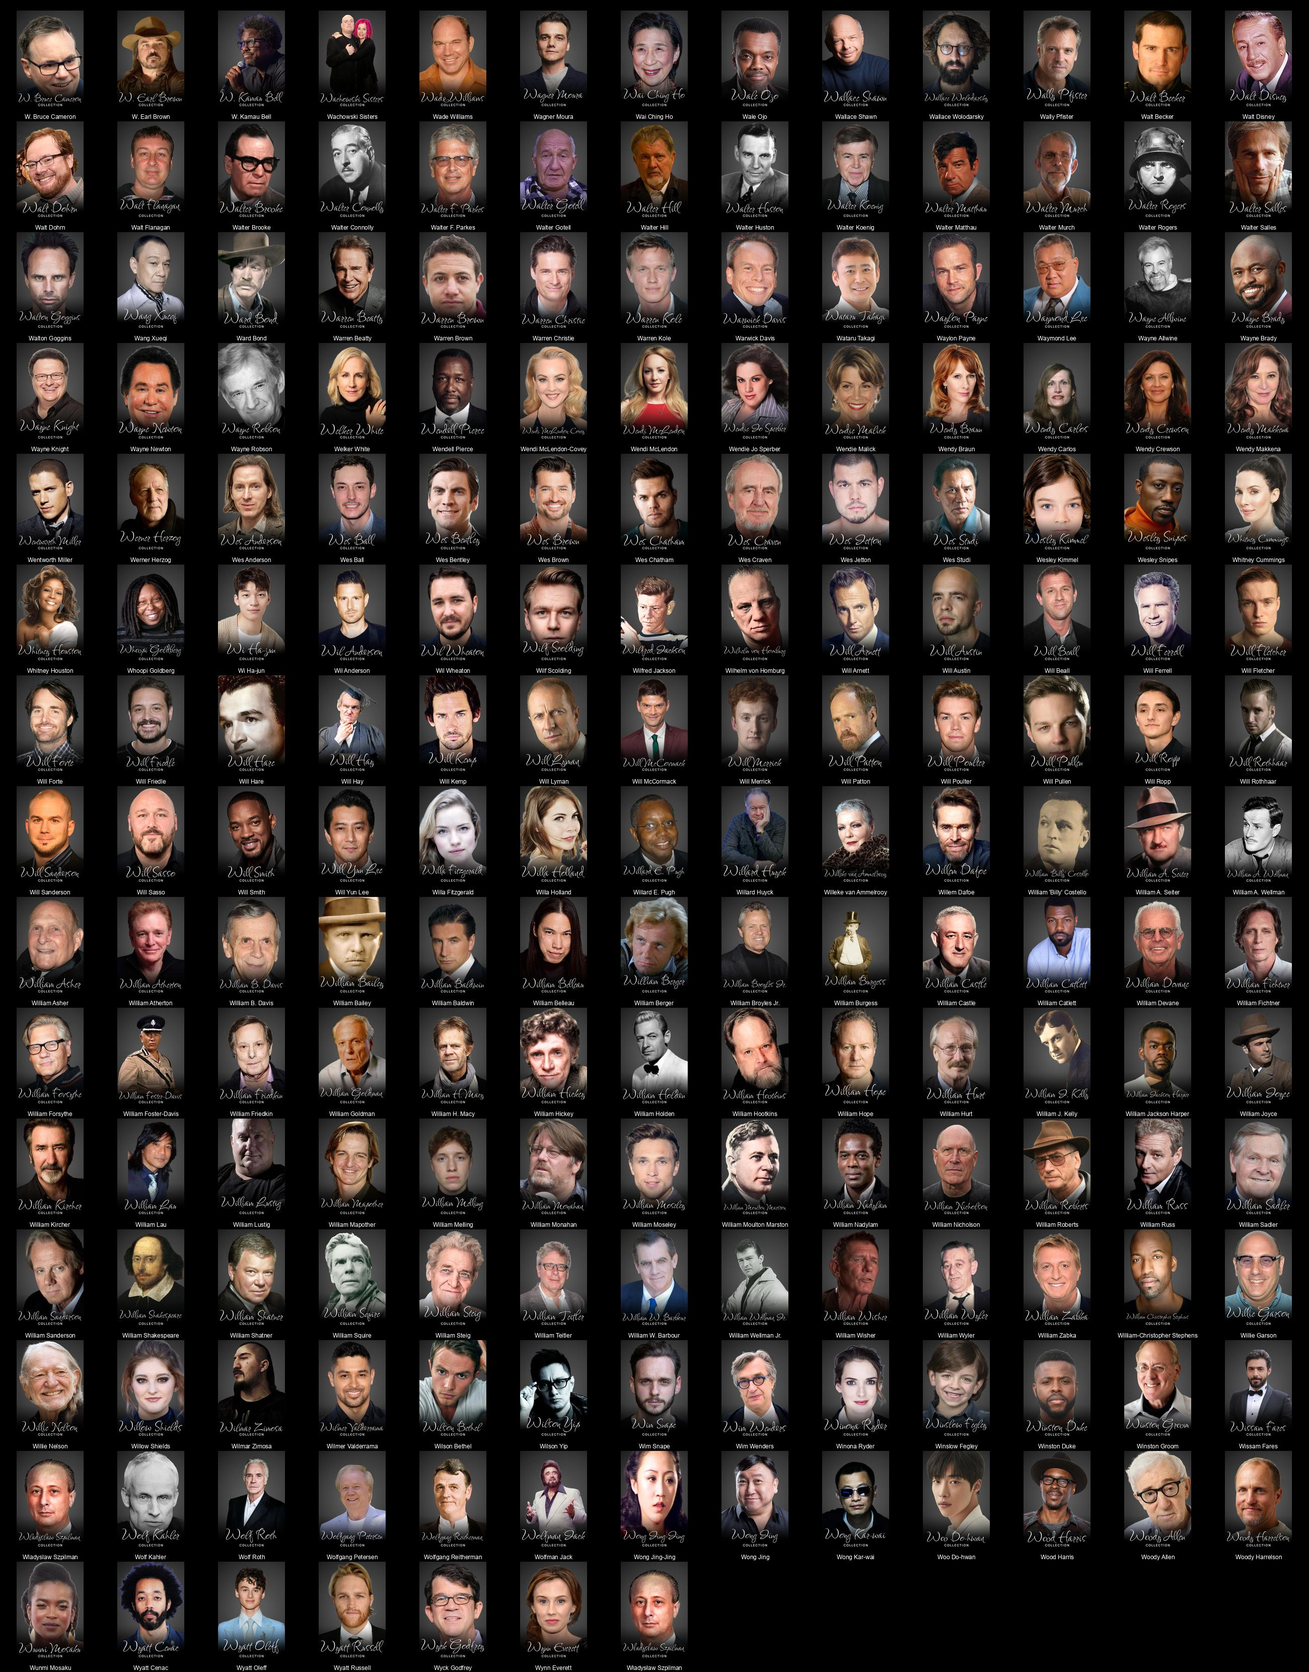
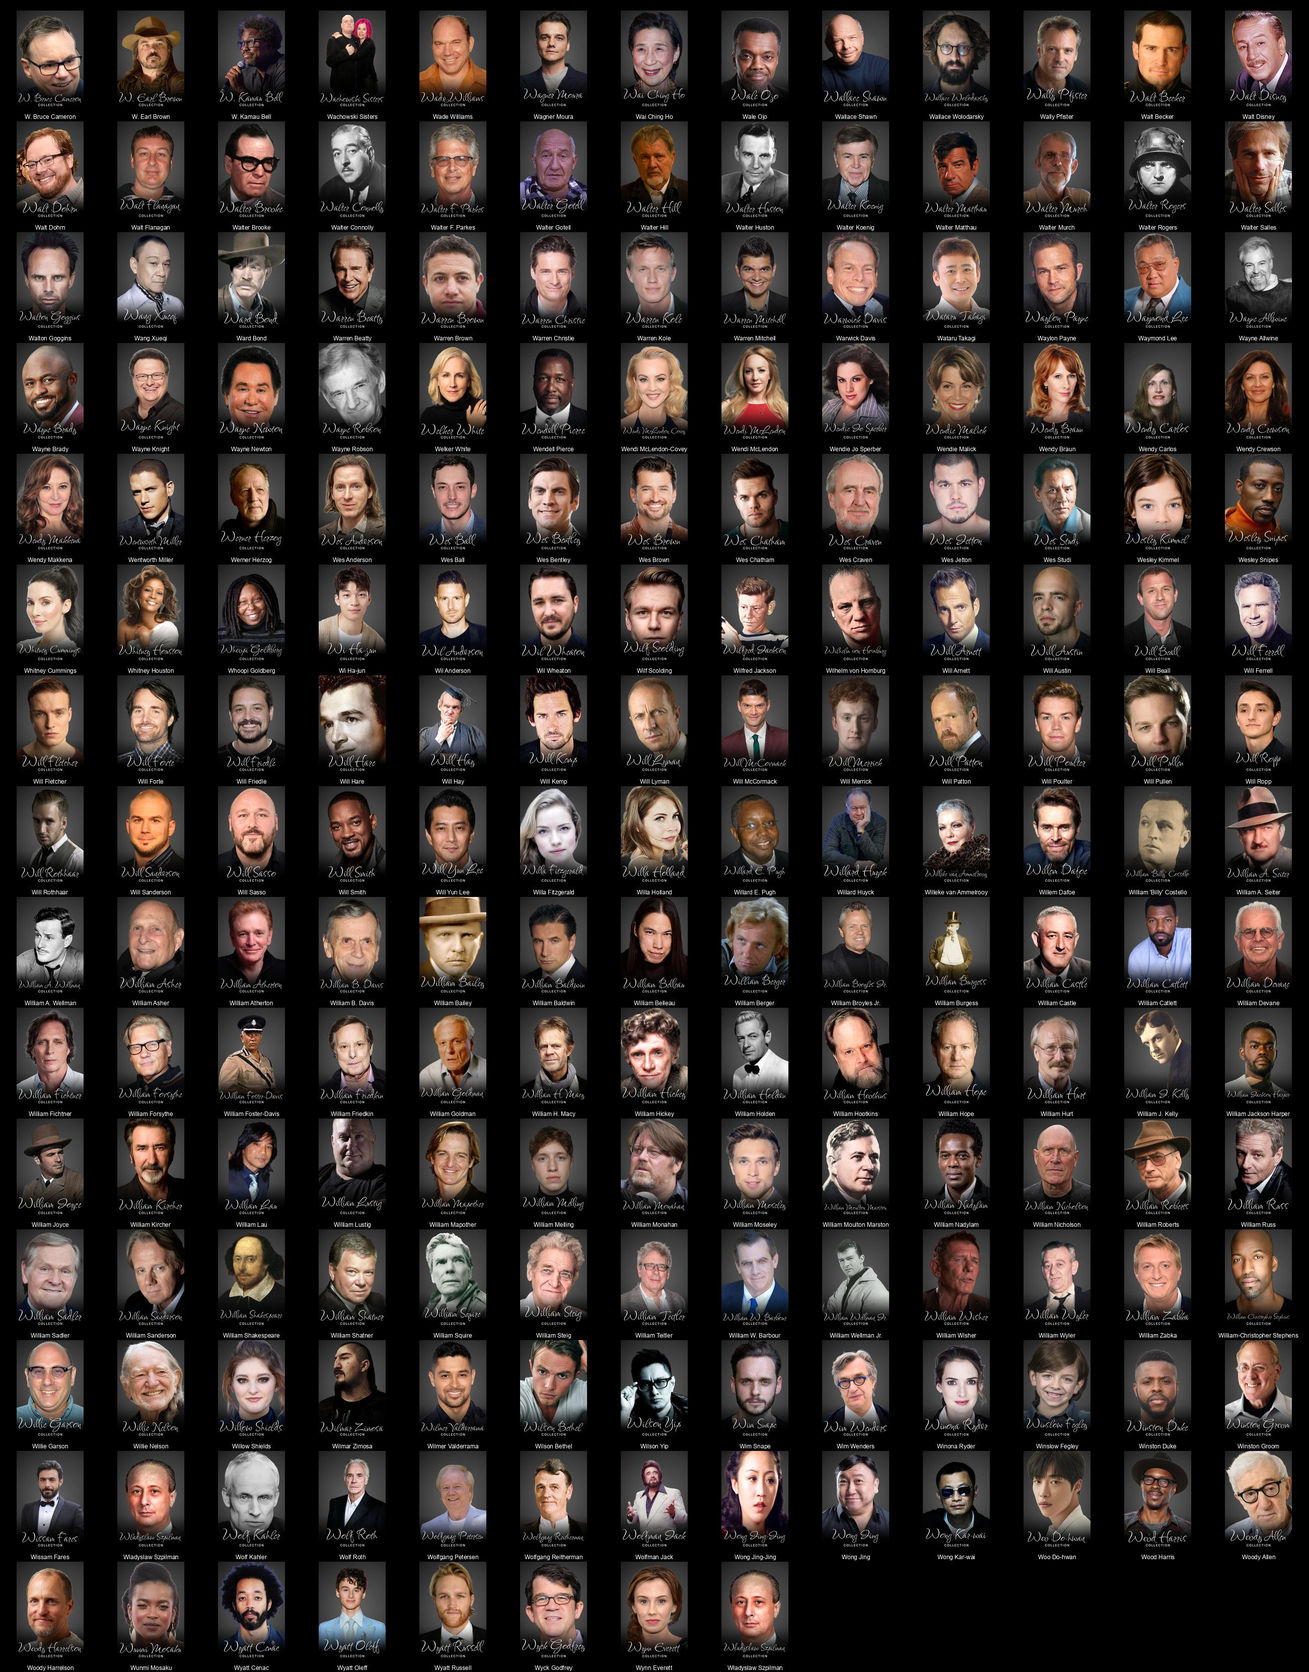
Readme Update

Changed region(s): [[0.0935, 0.1241, 0.9969, 1.0], [0.0, 0.1861, 0.0623, 1.0]]

diff --git a/README.md b/README.md
@@ -1,4 +1,4 @@
-# Kometa People Images - Signature (signature) (10901 Images)
+# Kometa People Images - Signature (signature) (10909 Images)
 
 <details><summary><a href="'">' (1 Images)</a></summary>
 
@@ -898,7 +898,7 @@
 * [Azhar Usman](https://raw.githubusercontent.com/Kometa-Team/People-Images-signature/master/A/Images/Azhar%20Usman.jpg)
 * [Aziz Ansari](https://raw.githubusercontent.com/Kometa-Team/People-Images-signature/master/A/Images/Aziz%20Ansari.jpg)
 </details>
-<details><summary><a href="B">B (546 Images)</a></summary>
+<details><summary><a href="B">B (547 Images)</a></summary>
 
 * [B.F. Blinn](https://raw.githubusercontent.com/Kometa-Team/People-Images-signature/master/B/Images/B.F.%20Blinn.jpg)
 * [B.J. Penn](https://raw.githubusercontent.com/Kometa-Team/People-Images-signature/master/B/Images/B.J.%20Penn.jpg)
@@ -1418,6 +1418,7 @@
 * [Bryan Singer](https://raw.githubusercontent.com/Kometa-Team/People-Images-signature/master/B/Images/Bryan%20Singer.jpg)
 * [Bryan Sloyer](https://raw.githubusercontent.com/Kometa-Team/People-Images-signature/master/B/Images/Bryan%20Sloyer.jpg)
 * [Bryan Unkeless](https://raw.githubusercontent.com/Kometa-Team/People-Images-signature/master/B/Images/Bryan%20Unkeless.jpg)
+* [Bryan Woods](https://raw.githubusercontent.com/Kometa-Team/People-Images-signature/master/B/Images/Bryan%20Woods.jpg)
 * [Bryce Dallas Howard](https://raw.githubusercontent.com/Kometa-Team/People-Images-signature/master/B/Images/Bryce%20Dallas%20Howard.jpg)
 * [Bryce Johnson](https://raw.githubusercontent.com/Kometa-Team/People-Images-signature/master/B/Images/Bryce%20Johnson.jpg)
 * [Bráulio Mantovani](https://raw.githubusercontent.com/Kometa-Team/People-Images-signature/master/B/Images/Br%C3%A1ulio%20Mantovani.jpg)
@@ -2147,7 +2148,7 @@
 * [Cédric Klapisch](https://raw.githubusercontent.com/Kometa-Team/People-Images-signature/master/C/Images/C%C3%A9dric%20Klapisch.jpg)
 * [Céline Sciamma](https://raw.githubusercontent.com/Kometa-Team/People-Images-signature/master/C/Images/C%C3%A9line%20Sciamma.jpg)
 </details>
-<details><summary><a href="D">D (698 Images)</a></summary>
+<details><summary><a href="D">D (701 Images)</a></summary>
 
 * [D. David Morin](https://raw.githubusercontent.com/Kometa-Team/People-Images-signature/master/D/Images/D.%20David%20Morin.jpg)
 * [D.A. Obahor](https://raw.githubusercontent.com/Kometa-Team/People-Images-signature/master/D/Images/D.A.%20Obahor.jpg)
@@ -2417,6 +2418,7 @@
 * [David Bruckner](https://raw.githubusercontent.com/Kometa-Team/People-Images-signature/master/D/Images/David%20Bruckner.jpg)
 * [David Brückner](https://raw.githubusercontent.com/Kometa-Team/People-Images-signature/master/D/Images/David%20Br%C3%BCckner.jpg)
 * [David Butler](https://raw.githubusercontent.com/Kometa-Team/People-Images-signature/master/D/Images/David%20Butler.jpg)
+* [David Callaham](https://raw.githubusercontent.com/Kometa-Team/People-Images-signature/master/D/Images/David%20Callaham.jpg)
 * [David Carradine](https://raw.githubusercontent.com/Kometa-Team/People-Images-signature/master/D/Images/David%20Carradine.jpg)
 * [David Costabile](https://raw.githubusercontent.com/Kometa-Team/People-Images-signature/master/D/Images/David%20Costabile.jpg)
 * [David Cowgill](https://raw.githubusercontent.com/Kometa-Team/People-Images-signature/master/D/Images/David%20Cowgill.jpg)
@@ -2645,6 +2647,7 @@
 * [Derek Wilson](https://raw.githubusercontent.com/Kometa-Team/People-Images-signature/master/D/Images/Derek%20Wilson.jpg)
 * [Dermot Crowley](https://raw.githubusercontent.com/Kometa-Team/People-Images-signature/master/D/Images/Dermot%20Crowley.jpg)
 * [Dermot Mulroney](https://raw.githubusercontent.com/Kometa-Team/People-Images-signature/master/D/Images/Dermot%20Mulroney.jpg)
+* [Dermot O'Neill](https://raw.githubusercontent.com/Kometa-Team/People-Images-signature/master/D/Images/Dermot%20O%27Neill.jpg)
 * [Desmin Borges](https://raw.githubusercontent.com/Kometa-Team/People-Images-signature/master/D/Images/Desmin%20Borges.jpg)
 * [Desmond Chiam](https://raw.githubusercontent.com/Kometa-Team/People-Images-signature/master/D/Images/Desmond%20Chiam.jpg)
 * [Desmond Harrington](https://raw.githubusercontent.com/Kometa-Team/People-Images-signature/master/D/Images/Desmond%20Harrington.jpg)
@@ -2804,6 +2807,7 @@
 * [Douglas Silva](https://raw.githubusercontent.com/Kometa-Team/People-Images-signature/master/D/Images/Douglas%20Silva.jpg)
 * [Douglas Sirk](https://raw.githubusercontent.com/Kometa-Team/People-Images-signature/master/D/Images/Douglas%20Sirk.jpg)
 * [Douglas Spain](https://raw.githubusercontent.com/Kometa-Team/People-Images-signature/master/D/Images/Douglas%20Spain.jpg)
+* [Douglas Wick](https://raw.githubusercontent.com/Kometa-Team/People-Images-signature/master/D/Images/Douglas%20Wick.jpg)
 * [Dougray Scott](https://raw.githubusercontent.com/Kometa-Team/People-Images-signature/master/D/Images/Dougray%20Scott.jpg)
 * [Doutzen Kroes](https://raw.githubusercontent.com/Kometa-Team/People-Images-signature/master/D/Images/Doutzen%20Kroes.jpg)
 * [Dov Davidoff](https://raw.githubusercontent.com/Kometa-Team/People-Images-signature/master/D/Images/Dov%20Davidoff.jpg)
@@ -4245,7 +4249,7 @@
 * [Izaac Wang](https://raw.githubusercontent.com/Kometa-Team/People-Images-signature/master/I/Images/Izaac%20Wang.jpg)
 * [Izabella Scorupco](https://raw.githubusercontent.com/Kometa-Team/People-Images-signature/master/I/Images/Izabella%20Scorupco.jpg)
 </details>
-<details><summary><a href="J">J (1333 Images)</a></summary>
+<details><summary><a href="J">J (1334 Images)</a></summary>
 
 * [J'Dvonte](https://raw.githubusercontent.com/Kometa-Team/People-Images-signature/master/J/Images/J%27Dvonte.jpg)
 * [J. A. Bayona](https://raw.githubusercontent.com/Kometa-Team/People-Images-signature/master/J/Images/J.%20A.%20Bayona.jpg)
@@ -5299,6 +5303,7 @@
 * [Jonathan Eirich](https://raw.githubusercontent.com/Kometa-Team/People-Images-signature/master/J/Images/Jonathan%20Eirich.jpg)
 * [Jonathan Frakes](https://raw.githubusercontent.com/Kometa-Team/People-Images-signature/master/J/Images/Jonathan%20Frakes.jpg)
 * [Jonathan Glazer](https://raw.githubusercontent.com/Kometa-Team/People-Images-signature/master/J/Images/Jonathan%20Glazer.jpg)
+* [Jonathan Glickman](https://raw.githubusercontent.com/Kometa-Team/People-Images-signature/master/J/Images/Jonathan%20Glickman.jpg)
 * [Jonathan Goldstein](https://raw.githubusercontent.com/Kometa-Team/People-Images-signature/master/J/Images/Jonathan%20Goldstein.jpg)
 * [Jonathan Good](https://raw.githubusercontent.com/Kometa-Team/People-Images-signature/master/J/Images/Jonathan%20Good.jpg)
 * [Jonathan Groff](https://raw.githubusercontent.com/Kometa-Team/People-Images-signature/master/J/Images/Jonathan%20Groff.jpg)
@@ -5581,7 +5586,7 @@
 * [Jürgen Prochnow](https://raw.githubusercontent.com/Kometa-Team/People-Images-signature/master/J/Images/J%C3%BCrgen%20Prochnow.jpg)
 * [Jūzō Itami](https://raw.githubusercontent.com/Kometa-Team/People-Images-signature/master/J/Images/J%C5%ABz%C5%8D%20Itami.jpg)
 </details>
-<details><summary><a href="K">K (528 Images)</a></summary>
+<details><summary><a href="K">K (529 Images)</a></summary>
 
 * [K Raghavendra Rao](https://raw.githubusercontent.com/Kometa-Team/People-Images-signature/master/K/Images/K%20Raghavendra%20Rao.jpg)
 * [K.J. Apa](https://raw.githubusercontent.com/Kometa-Team/People-Images-signature/master/K/Images/K.J.%20Apa.jpg)
@@ -5752,6 +5757,7 @@
 * [Kazuki Kitamura](https://raw.githubusercontent.com/Kometa-Team/People-Images-signature/master/K/Images/Kazuki%20Kitamura.jpg)
 * [Kazuko Yanaga](https://raw.githubusercontent.com/Kometa-Team/People-Images-signature/master/K/Images/Kazuko%20Yanaga.jpg)
 * [Kazunari Tanaka](https://raw.githubusercontent.com/Kometa-Team/People-Images-signature/master/K/Images/Kazunari%20Tanaka.jpg)
+* [Kazuya Nomura](https://raw.githubusercontent.com/Kometa-Team/People-Images-signature/master/K/Images/Kazuya%20Nomura.jpg)
 * [Kazuya Shiraishi](https://raw.githubusercontent.com/Kometa-Team/People-Images-signature/master/K/Images/Kazuya%20Shiraishi.jpg)
 * [Kazuya Tsurumaki](https://raw.githubusercontent.com/Kometa-Team/People-Images-signature/master/K/Images/Kazuya%20Tsurumaki.jpg)
 * [Kazuyuki Okitsu](https://raw.githubusercontent.com/Kometa-Team/People-Images-signature/master/K/Images/Kazuyuki%20Okitsu.jpg)
@@ -8463,7 +8469,7 @@
 * [Quinn Duffy](https://raw.githubusercontent.com/Kometa-Team/People-Images-signature/master/Q/Images/Quinn%20Duffy.jpg)
 * [Quinton Jackson](https://raw.githubusercontent.com/Kometa-Team/People-Images-signature/master/Q/Images/Quinton%20Jackson.jpg)
 </details>
-<details><summary><a href="R">R (691 Images)</a></summary>
+<details><summary><a href="R">R (692 Images)</a></summary>
 
 * [R. Lee Ermey](https://raw.githubusercontent.com/Kometa-Team/People-Images-signature/master/R/Images/R.%20Lee%20Ermey.jpg)
 * [R. Madhavan](https://raw.githubusercontent.com/Kometa-Team/People-Images-signature/master/R/Images/R.%20Madhavan.jpg)
@@ -8777,6 +8783,7 @@
 * [Rie Kugimiya](https://raw.githubusercontent.com/Kometa-Team/People-Images-signature/master/R/Images/Rie%20Kugimiya.jpg)
 * [Rie Takahashi](https://raw.githubusercontent.com/Kometa-Team/People-Images-signature/master/R/Images/Rie%20Takahashi.jpg)
 * [Rieko Takahashi](https://raw.githubusercontent.com/Kometa-Team/People-Images-signature/master/R/Images/Rieko%20Takahashi.jpg)
+* [Rik Mayall](https://raw.githubusercontent.com/Kometa-Team/People-Images-signature/master/R/Images/Rik%20Mayall.jpg)
 * [Riki Lindhome](https://raw.githubusercontent.com/Kometa-Team/People-Images-signature/master/R/Images/Riki%20Lindhome.jpg)
 * [Riki Takeuchi](https://raw.githubusercontent.com/Kometa-Team/People-Images-signature/master/R/Images/Riki%20Takeuchi.jpg)
 * [Rikiya Koyama](https://raw.githubusercontent.com/Kometa-Team/People-Images-signature/master/R/Images/Rikiya%20Koyama.jpg)
@@ -10617,7 +10624,7 @@
 * [Von Lewis](https://raw.githubusercontent.com/Kometa-Team/People-Images-signature/master/V/Images/Von%20Lewis.jpg)
 * [Věra Chytilová](https://raw.githubusercontent.com/Kometa-Team/People-Images-signature/master/V/Images/V%C4%9Bra%20Chytilov%C3%A1.jpg)
 </details>
-<details><summary><a href="W">W (189 Images)</a></summary>
+<details><summary><a href="W">W (190 Images)</a></summary>
 
 * [W. Bruce Cameron](https://raw.githubusercontent.com/Kometa-Team/People-Images-signature/master/W/Images/W.%20Bruce%20Cameron.jpg)
 * [W. Earl Brown](https://raw.githubusercontent.com/Kometa-Team/People-Images-signature/master/W/Images/W.%20Earl%20Brown.jpg)
@@ -10652,6 +10659,7 @@
 * [Warren Brown](https://raw.githubusercontent.com/Kometa-Team/People-Images-signature/master/W/Images/Warren%20Brown.jpg)
 * [Warren Christie](https://raw.githubusercontent.com/Kometa-Team/People-Images-signature/master/W/Images/Warren%20Christie.jpg)
 * [Warren Kole](https://raw.githubusercontent.com/Kometa-Team/People-Images-signature/master/W/Images/Warren%20Kole.jpg)
+* [Warren Mitchell](https://raw.githubusercontent.com/Kometa-Team/People-Images-signature/master/W/Images/Warren%20Mitchell.jpg)
 * [Warwick Davis](https://raw.githubusercontent.com/Kometa-Team/People-Images-signature/master/W/Images/Warwick%20Davis.jpg)
 * [Wataru Takagi](https://raw.githubusercontent.com/Kometa-Team/People-Images-signature/master/W/Images/Wataru%20Takagi.jpg)
 * [Waylon Payne](https://raw.githubusercontent.com/Kometa-Team/People-Images-signature/master/W/Images/Waylon%20Payne.jpg)

diff --git a/D/README.md b/D/README.md
@@ -1,4 +1,4 @@
-# Kometa People Images - Signature (signature) - D (698 Images)
+# Kometa People Images - Signature (signature) - D (701 Images)
 ![Grid](grid.jpg)
 
 * [D. David Morin](https://raw.githubusercontent.com/Kometa-Team/People-Images-signature/master/D/Images/D.%20David%20Morin.jpg)
@@ -269,6 +269,7 @@
 * [David Bruckner](https://raw.githubusercontent.com/Kometa-Team/People-Images-signature/master/D/Images/David%20Bruckner.jpg)
 * [David Brückner](https://raw.githubusercontent.com/Kometa-Team/People-Images-signature/master/D/Images/David%20Br%C3%BCckner.jpg)
 * [David Butler](https://raw.githubusercontent.com/Kometa-Team/People-Images-signature/master/D/Images/David%20Butler.jpg)
+* [David Callaham](https://raw.githubusercontent.com/Kometa-Team/People-Images-signature/master/D/Images/David%20Callaham.jpg)
 * [David Carradine](https://raw.githubusercontent.com/Kometa-Team/People-Images-signature/master/D/Images/David%20Carradine.jpg)
 * [David Costabile](https://raw.githubusercontent.com/Kometa-Team/People-Images-signature/master/D/Images/David%20Costabile.jpg)
 * [David Cowgill](https://raw.githubusercontent.com/Kometa-Team/People-Images-signature/master/D/Images/David%20Cowgill.jpg)
@@ -497,6 +498,7 @@
 * [Derek Wilson](https://raw.githubusercontent.com/Kometa-Team/People-Images-signature/master/D/Images/Derek%20Wilson.jpg)
 * [Dermot Crowley](https://raw.githubusercontent.com/Kometa-Team/People-Images-signature/master/D/Images/Dermot%20Crowley.jpg)
 * [Dermot Mulroney](https://raw.githubusercontent.com/Kometa-Team/People-Images-signature/master/D/Images/Dermot%20Mulroney.jpg)
+* [Dermot O'Neill](https://raw.githubusercontent.com/Kometa-Team/People-Images-signature/master/D/Images/Dermot%20O%27Neill.jpg)
 * [Desmin Borges](https://raw.githubusercontent.com/Kometa-Team/People-Images-signature/master/D/Images/Desmin%20Borges.jpg)
 * [Desmond Chiam](https://raw.githubusercontent.com/Kometa-Team/People-Images-signature/master/D/Images/Desmond%20Chiam.jpg)
 * [Desmond Harrington](https://raw.githubusercontent.com/Kometa-Team/People-Images-signature/master/D/Images/Desmond%20Harrington.jpg)
@@ -656,6 +658,7 @@
 * [Douglas Silva](https://raw.githubusercontent.com/Kometa-Team/People-Images-signature/master/D/Images/Douglas%20Silva.jpg)
 * [Douglas Sirk](https://raw.githubusercontent.com/Kometa-Team/People-Images-signature/master/D/Images/Douglas%20Sirk.jpg)
 * [Douglas Spain](https://raw.githubusercontent.com/Kometa-Team/People-Images-signature/master/D/Images/Douglas%20Spain.jpg)
+* [Douglas Wick](https://raw.githubusercontent.com/Kometa-Team/People-Images-signature/master/D/Images/Douglas%20Wick.jpg)
 * [Dougray Scott](https://raw.githubusercontent.com/Kometa-Team/People-Images-signature/master/D/Images/Dougray%20Scott.jpg)
 * [Doutzen Kroes](https://raw.githubusercontent.com/Kometa-Team/People-Images-signature/master/D/Images/Doutzen%20Kroes.jpg)
 * [Dov Davidoff](https://raw.githubusercontent.com/Kometa-Team/People-Images-signature/master/D/Images/Dov%20Davidoff.jpg)

diff --git a/K/README.md b/K/README.md
@@ -1,4 +1,4 @@
-# Kometa People Images - Signature (signature) - K (528 Images)
+# Kometa People Images - Signature (signature) - K (529 Images)
 ![Grid](grid.jpg)
 
 * [K Raghavendra Rao](https://raw.githubusercontent.com/Kometa-Team/People-Images-signature/master/K/Images/K%20Raghavendra%20Rao.jpg)
@@ -170,6 +170,7 @@
 * [Kazuki Kitamura](https://raw.githubusercontent.com/Kometa-Team/People-Images-signature/master/K/Images/Kazuki%20Kitamura.jpg)
 * [Kazuko Yanaga](https://raw.githubusercontent.com/Kometa-Team/People-Images-signature/master/K/Images/Kazuko%20Yanaga.jpg)
 * [Kazunari Tanaka](https://raw.githubusercontent.com/Kometa-Team/People-Images-signature/master/K/Images/Kazunari%20Tanaka.jpg)
+* [Kazuya Nomura](https://raw.githubusercontent.com/Kometa-Team/People-Images-signature/master/K/Images/Kazuya%20Nomura.jpg)
 * [Kazuya Shiraishi](https://raw.githubusercontent.com/Kometa-Team/People-Images-signature/master/K/Images/Kazuya%20Shiraishi.jpg)
 * [Kazuya Tsurumaki](https://raw.githubusercontent.com/Kometa-Team/People-Images-signature/master/K/Images/Kazuya%20Tsurumaki.jpg)
 * [Kazuyuki Okitsu](https://raw.githubusercontent.com/Kometa-Team/People-Images-signature/master/K/Images/Kazuyuki%20Okitsu.jpg)

diff --git a/J/README.md b/J/README.md
@@ -1,4 +1,4 @@
-# Kometa People Images - Signature (signature) - J (1333 Images)
+# Kometa People Images - Signature (signature) - J (1334 Images)
 ![Grid](grid.jpg)
 
 * [J'Dvonte](https://raw.githubusercontent.com/Kometa-Team/People-Images-signature/master/J/Images/J%27Dvonte.jpg)
@@ -1053,6 +1053,7 @@
 * [Jonathan Eirich](https://raw.githubusercontent.com/Kometa-Team/People-Images-signature/master/J/Images/Jonathan%20Eirich.jpg)
 * [Jonathan Frakes](https://raw.githubusercontent.com/Kometa-Team/People-Images-signature/master/J/Images/Jonathan%20Frakes.jpg)
 * [Jonathan Glazer](https://raw.githubusercontent.com/Kometa-Team/People-Images-signature/master/J/Images/Jonathan%20Glazer.jpg)
+* [Jonathan Glickman](https://raw.githubusercontent.com/Kometa-Team/People-Images-signature/master/J/Images/Jonathan%20Glickman.jpg)
 * [Jonathan Goldstein](https://raw.githubusercontent.com/Kometa-Team/People-Images-signature/master/J/Images/Jonathan%20Goldstein.jpg)
 * [Jonathan Good](https://raw.githubusercontent.com/Kometa-Team/People-Images-signature/master/J/Images/Jonathan%20Good.jpg)
 * [Jonathan Groff](https://raw.githubusercontent.com/Kometa-Team/People-Images-signature/master/J/Images/Jonathan%20Groff.jpg)

diff --git a/B/README.md b/B/README.md
@@ -1,4 +1,4 @@
-# Kometa People Images - Signature (signature) - B (546 Images)
+# Kometa People Images - Signature (signature) - B (547 Images)
 ![Grid](grid.jpg)
 
 * [B.F. Blinn](https://raw.githubusercontent.com/Kometa-Team/People-Images-signature/master/B/Images/B.F.%20Blinn.jpg)
@@ -519,6 +519,7 @@
 * [Bryan Singer](https://raw.githubusercontent.com/Kometa-Team/People-Images-signature/master/B/Images/Bryan%20Singer.jpg)
 * [Bryan Sloyer](https://raw.githubusercontent.com/Kometa-Team/People-Images-signature/master/B/Images/Bryan%20Sloyer.jpg)
 * [Bryan Unkeless](https://raw.githubusercontent.com/Kometa-Team/People-Images-signature/master/B/Images/Bryan%20Unkeless.jpg)
+* [Bryan Woods](https://raw.githubusercontent.com/Kometa-Team/People-Images-signature/master/B/Images/Bryan%20Woods.jpg)
 * [Bryce Dallas Howard](https://raw.githubusercontent.com/Kometa-Team/People-Images-signature/master/B/Images/Bryce%20Dallas%20Howard.jpg)
 * [Bryce Johnson](https://raw.githubusercontent.com/Kometa-Team/People-Images-signature/master/B/Images/Bryce%20Johnson.jpg)
 * [Bráulio Mantovani](https://raw.githubusercontent.com/Kometa-Team/People-Images-signature/master/B/Images/Br%C3%A1ulio%20Mantovani.jpg)

diff --git a/W/README.md b/W/README.md
@@ -1,4 +1,4 @@
-# Kometa People Images - Signature (signature) - W (189 Images)
+# Kometa People Images - Signature (signature) - W (190 Images)
 ![Grid](grid.jpg)
 
 * [W. Bruce Cameron](https://raw.githubusercontent.com/Kometa-Team/People-Images-signature/master/W/Images/W.%20Bruce%20Cameron.jpg)
@@ -34,6 +34,7 @@
 * [Warren Brown](https://raw.githubusercontent.com/Kometa-Team/People-Images-signature/master/W/Images/Warren%20Brown.jpg)
 * [Warren Christie](https://raw.githubusercontent.com/Kometa-Team/People-Images-signature/master/W/Images/Warren%20Christie.jpg)
 * [Warren Kole](https://raw.githubusercontent.com/Kometa-Team/People-Images-signature/master/W/Images/Warren%20Kole.jpg)
+* [Warren Mitchell](https://raw.githubusercontent.com/Kometa-Team/People-Images-signature/master/W/Images/Warren%20Mitchell.jpg)
 * [Warwick Davis](https://raw.githubusercontent.com/Kometa-Team/People-Images-signature/master/W/Images/Warwick%20Davis.jpg)
 * [Wataru Takagi](https://raw.githubusercontent.com/Kometa-Team/People-Images-signature/master/W/Images/Wataru%20Takagi.jpg)
 * [Waylon Payne](https://raw.githubusercontent.com/Kometa-Team/People-Images-signature/master/W/Images/Waylon%20Payne.jpg)

diff --git a/R/README.md b/R/README.md
@@ -1,4 +1,4 @@
-# Kometa People Images - Signature (signature) - R (691 Images)
+# Kometa People Images - Signature (signature) - R (692 Images)
 ![Grid](grid.jpg)
 
 * [R. Lee Ermey](https://raw.githubusercontent.com/Kometa-Team/People-Images-signature/master/R/Images/R.%20Lee%20Ermey.jpg)
@@ -313,6 +313,7 @@
 * [Rie Kugimiya](https://raw.githubusercontent.com/Kometa-Team/People-Images-signature/master/R/Images/Rie%20Kugimiya.jpg)
 * [Rie Takahashi](https://raw.githubusercontent.com/Kometa-Team/People-Images-signature/master/R/Images/Rie%20Takahashi.jpg)
 * [Rieko Takahashi](https://raw.githubusercontent.com/Kometa-Team/People-Images-signature/master/R/Images/Rieko%20Takahashi.jpg)
+* [Rik Mayall](https://raw.githubusercontent.com/Kometa-Team/People-Images-signature/master/R/Images/Rik%20Mayall.jpg)
 * [Riki Lindhome](https://raw.githubusercontent.com/Kometa-Team/People-Images-signature/master/R/Images/Riki%20Lindhome.jpg)
 * [Riki Takeuchi](https://raw.githubusercontent.com/Kometa-Team/People-Images-signature/master/R/Images/Riki%20Takeuchi.jpg)
 * [Rikiya Koyama](https://raw.githubusercontent.com/Kometa-Team/People-Images-signature/master/R/Images/Rikiya%20Koyama.jpg)
